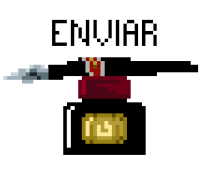
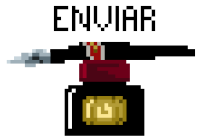
Adicionando imagens da página enviar e receber

Changed region(s): [[0.0, 0.029, 1.0, 0.9855]]

diff --git a/css/style.css b/css/style.css
@@ -22,12 +22,73 @@ main section#top {
     display: flex;
     justify-content: center;
     align-items: center;
-
-    border-bottom: 5px solid #21170b;
 }
 main section#top > a {
     margin: 60px;
 }
+main section#top a > img{
+    width: 200px;
+    height: 138px;
+}
 main section#down {
     grid-area: down;
+
+    color: #fff;
+
+    justify-content: center;
+    flex-wrap: wrap;
+    display: flex;
+}
+main section#down div#linha {
+    background-color: #000;
+    height: 2px;
+    width: 85%;
+}
+    @media only screen and (max-width: 910px) {
+        main section#top {
+            flex-wrap: wrap;
+            align-content: center;
+        }
+        main section#top > a { margin: 0 5px; }
+        main > section {
+            margin-top: 20px;
+        }
+    }
+
+/* E N V I A R */
+main#env {
+    justify-content: center;
+    align-items: center;
+    flex-wrap: wrap;
+    display: flex;
+}
+main#env section div#pergaminho {
+    background-image: url(../img/escrever.png);
+    background-repeat: no-repeat;
+    background-size: contain;
+
+    width: 500px;
+    height: 500px;
+
+    justify-content: center;
+    align-items: center;
+    display: flex;
+}
+main#env section div#pergaminho textarea{
+    background: none;
+    border: none;
+
+    height: 390px;
+    resize: none;
+    width: 324px;
+
+    margin-left: 40px;
+
+    /*Retira a borda brilhante do textarea*/
+    outline: none;
+}
+
+main a#voltar img {
+    margin-bottom: 10px;
+    width: 50px;
 }

diff --git a/index.html b/index.html
@@ -9,15 +9,17 @@
 <body>
     <main>
         <section id="top">
-            <a href="#">
+            <a href="enviar.html">
                 <img src="img/enviar.png" alt="">
             </a>
-            <a href="#">
-                <img src="img/enviar.png" alt="">
+            <a href="receber.html">
+                <img src="img/receber.png" alt="">
             </a>
         </section>
         <section id="down">
+            <div id="linha"></div>
 
+            <p>Lorem ipsum dolor ido eria sero srito avo rasde</p>
         </section>
     </main>
 </body>

diff --git a/receber.html b/receber.html
@@ -1,0 +1,21 @@
+<!DOCTYPE html>
+<html lang="pt-br">
+<head>
+    <meta charset="UTF-8">
+    <title>Enviar | Raven Traveler</title>
+
+    <link rel="stylesheet" href="css/style.css">
+</head>
+<body>
+    <main id="env">
+        <a id="voltar" href="index.html">
+            <img src="img/_home.png" alt="">
+        </a>
+        <section id="rec">
+            <div id="pergaminho">
+                <textarea readonly></textarea>
+            </div>
+        </section>
+    </main>
+</body>
+</html>

diff --git a/enviar.html b/enviar.html
@@ -1,0 +1,21 @@
+<!DOCTYPE html>
+<html lang="pt-br">
+<head>
+    <meta charset="UTF-8">
+    <title>Enviar | Raven Traveler</title>
+
+    <link rel="stylesheet" href="css/style.css">
+</head>
+<body>
+    <main id="env">
+        <a id="voltar" href="index.html">
+            <img src="img/_home.png" alt="">
+        </a>
+        <section id="env">
+            <div id="pergaminho">
+                <textarea></textarea>
+            </div>
+        </section>
+    </main>
+</body>
+</html>
